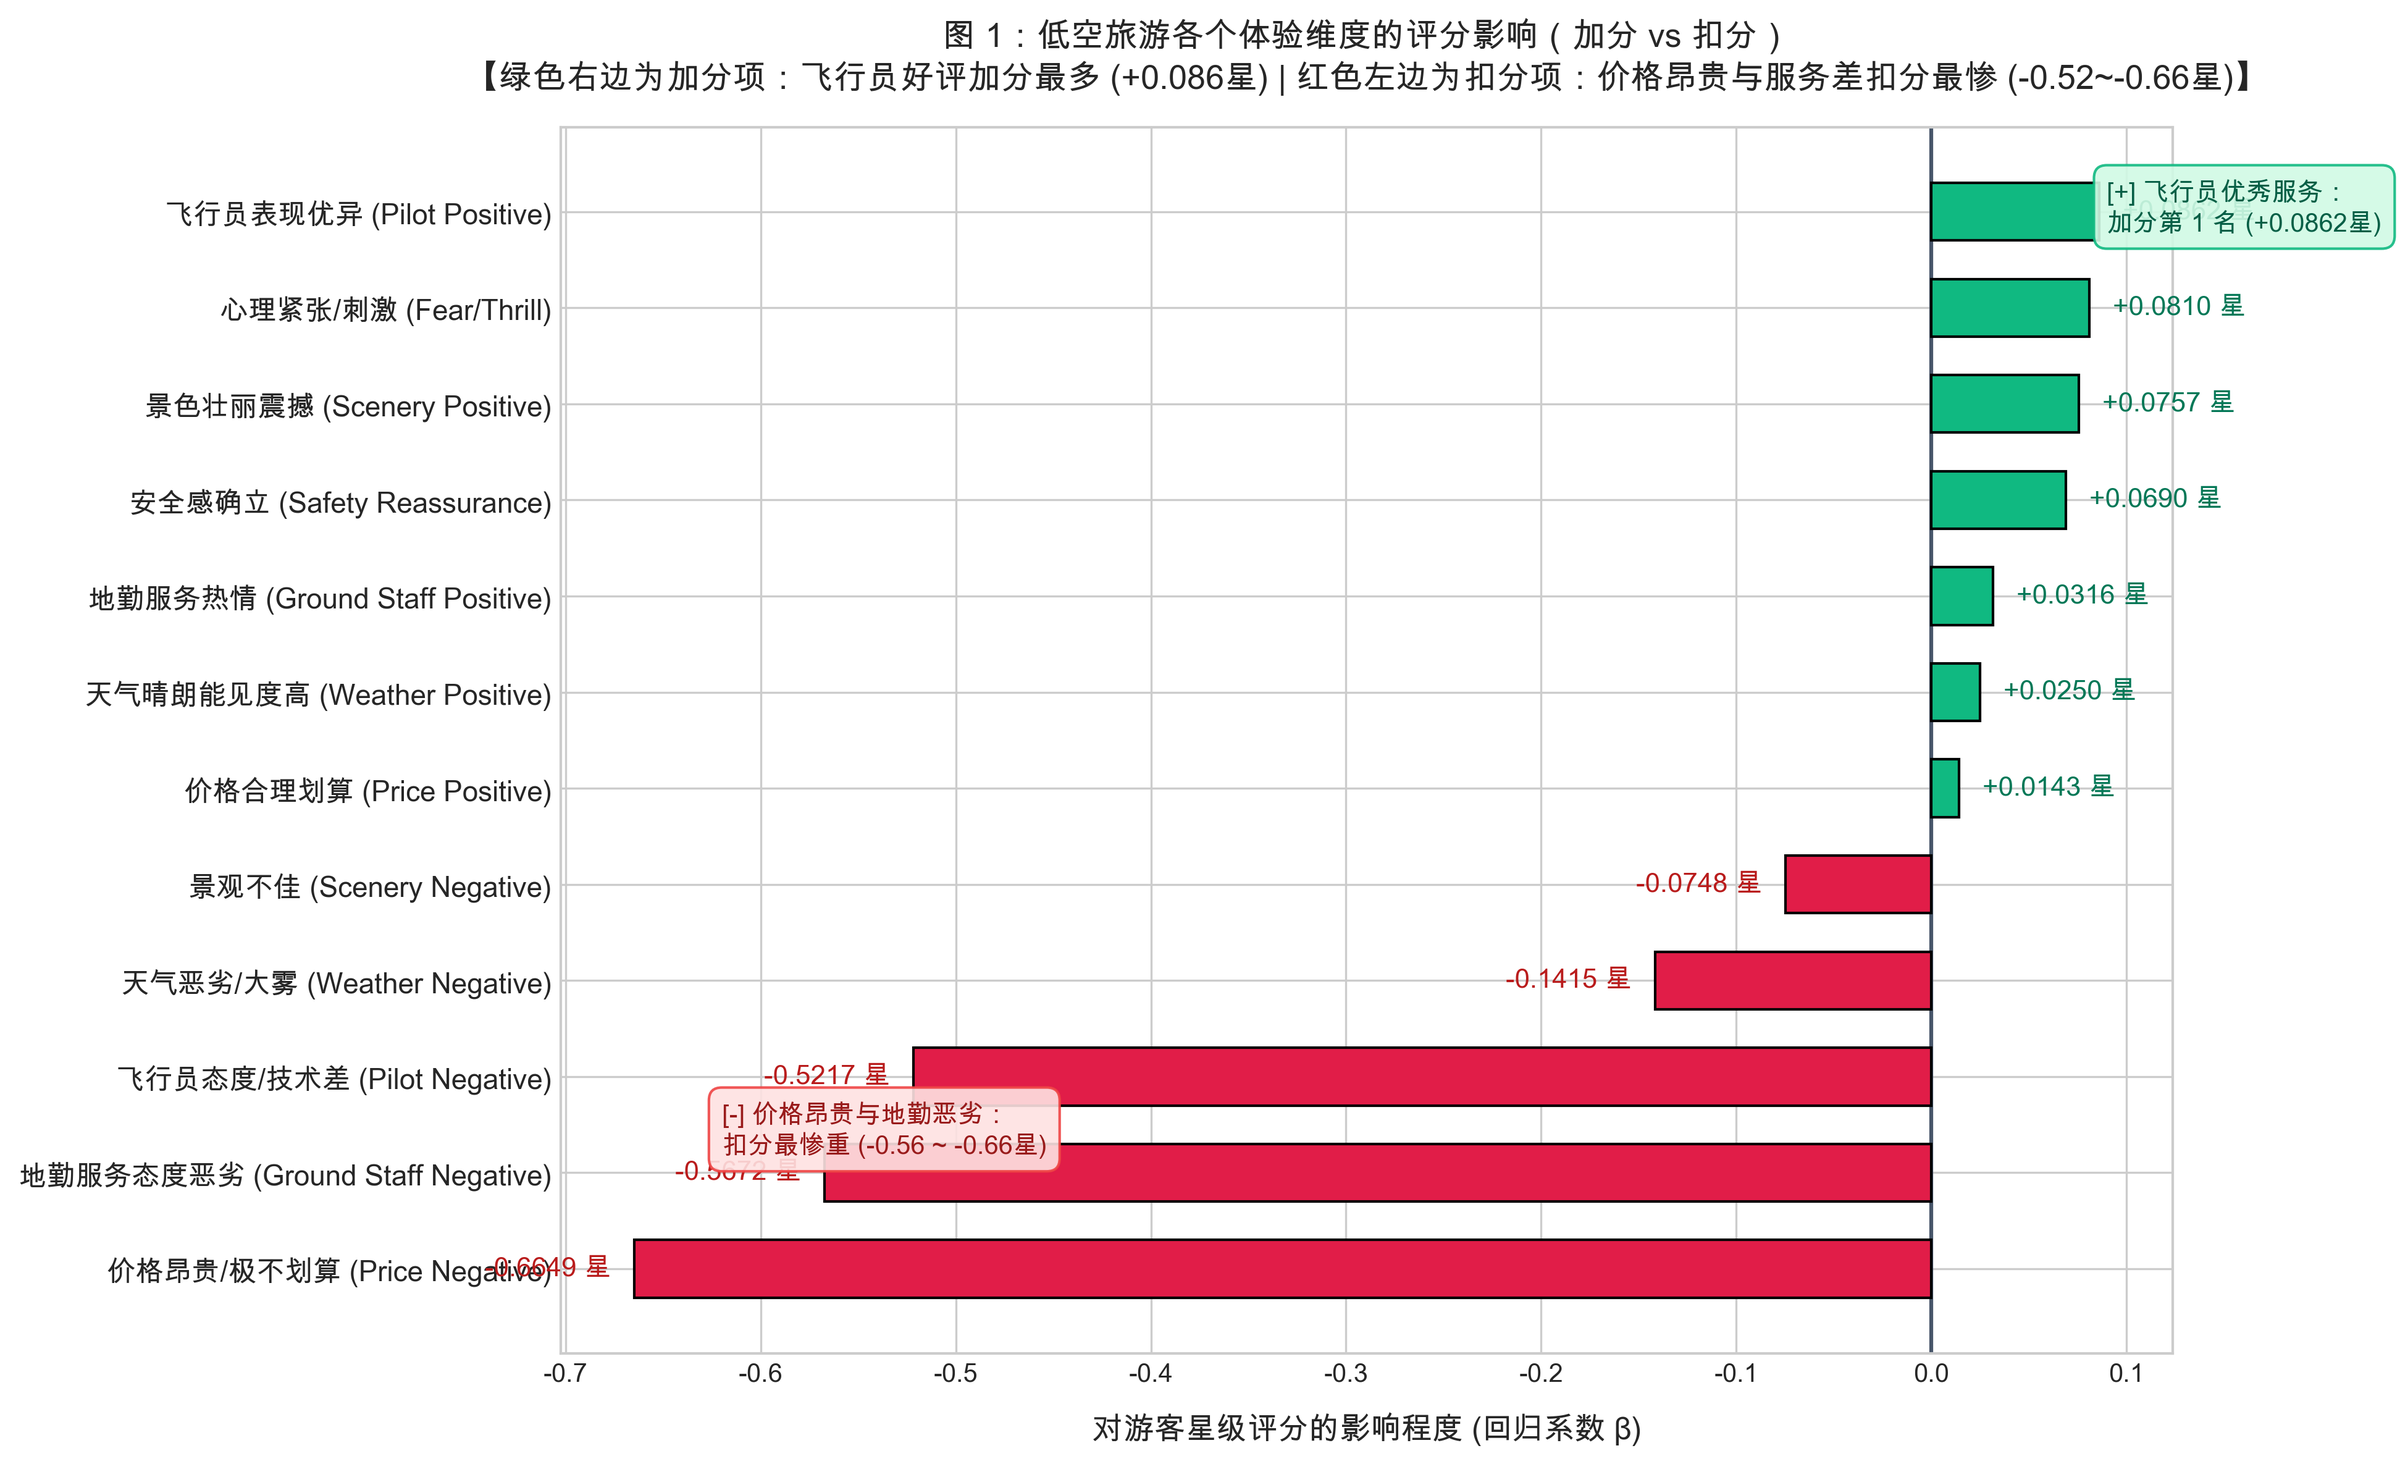
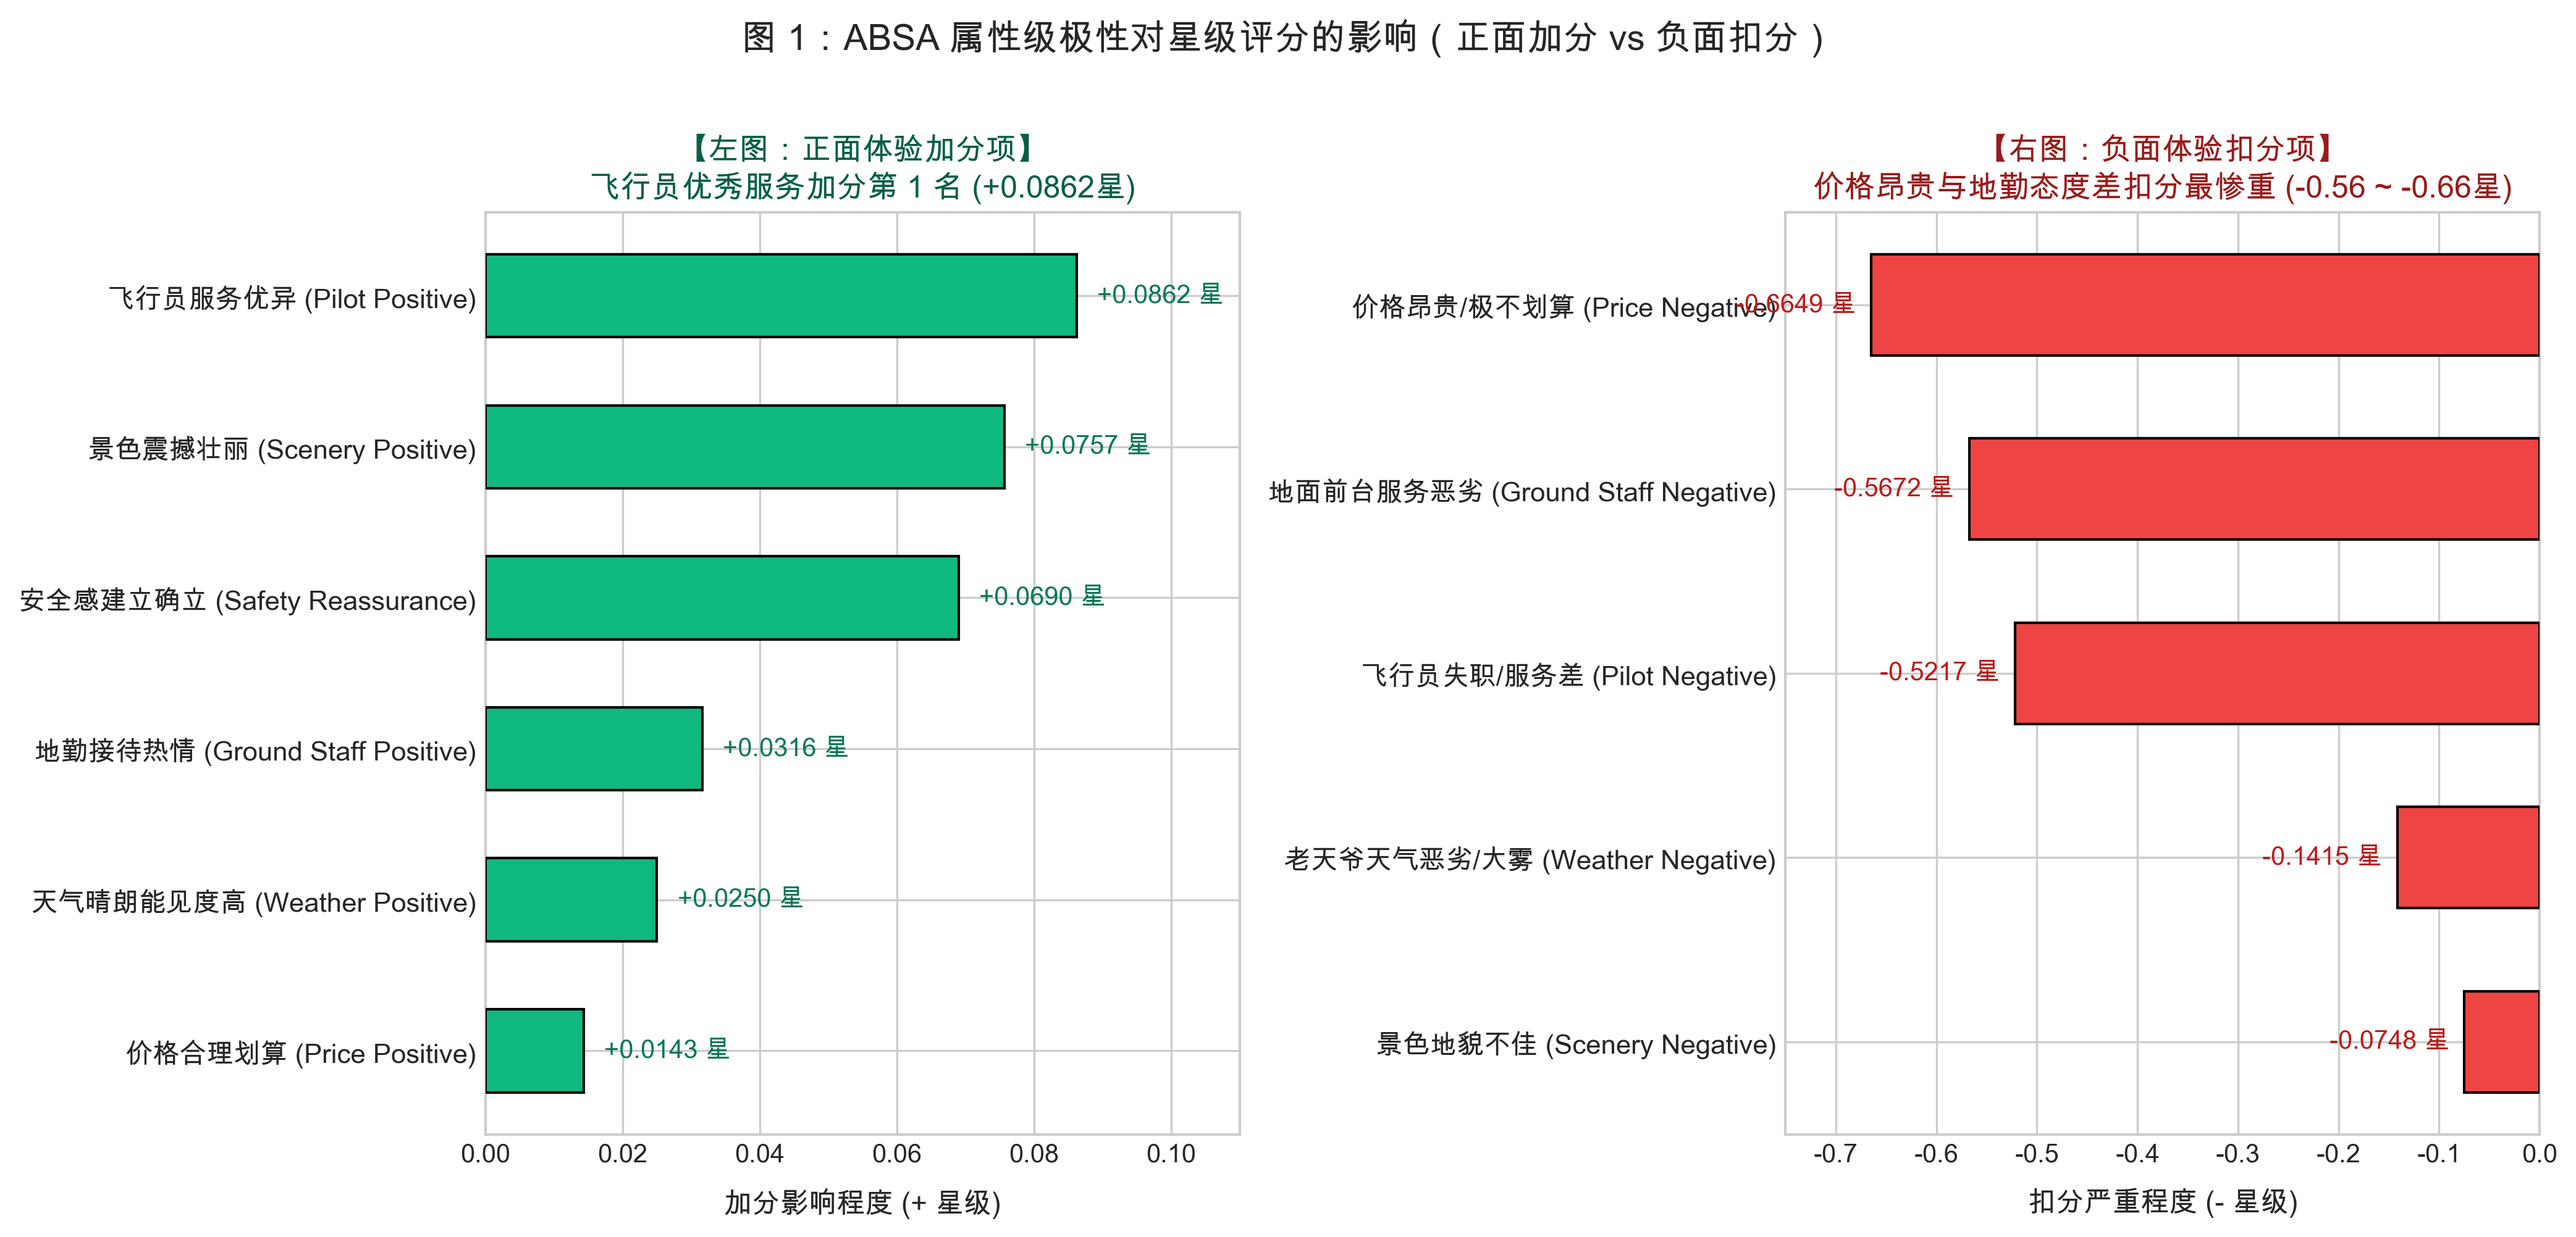
feat(viz): redesign figure 1 into 2-panel positive vs negative layout

diff --git a/generate_absa_econometric_plots.py b/generate_absa_econometric_plots.py
@@ -13,60 +13,73 @@ out_dir = 'figures'
 os.makedirs(out_dir, exist_ok=True)
 
 # -----------------------------------------------------------------------------
-# 图 1：各个体验维度对星级评分的影响（加分项 vs 扣分项 对比图）
+# 图 1：ABSA 属性极性影响 —— 清晰拆分为加分项与扣分项双面板对比图
 # -----------------------------------------------------------------------------
 absa_csv = 'data/derived_outputs/deep_research_absa_regressions.csv'
 df_absa = pd.read_csv(absa_csv)
 
-# 筛选核心领域维度
-df_domain = df_absa[~df_absa['Variable'].isin(['Intercept', 'word_count_std', 'is_us_domestic'])].copy()
+# 正面好评因素子集
+pos_vars = ['pilot_pos', 'scenery_pos', 'safety_assurance', 'ground_staff_pos', 'weather_pos', 'price_value_pos']
+pos_labels = [
+    '飞行员服务优异 (Pilot Positive)',
+    '景色震撼壮丽 (Scenery Positive)',
+    '安全感建立确立 (Safety Reassurance)',
+    '地勤接待热情 (Ground Staff Positive)',
+    '天气晴朗能见度高 (Weather Positive)',
+    '价格合理划算 (Price Positive)'
+]
 
-# 中文通俗标签映射
-zh_name_map = {
-    'pilot_pos': '飞行员表现优异 (Pilot Positive)',
-    'scenery_pos': '景色壮丽震撼 (Scenery Positive)',
-    'safety_assurance': '安全感确立 (Safety Reassurance)',
-    'fear_anxiety': '心理紧张/刺激 (Fear/Thrill)',
-    'ground_staff_pos': '地勤服务热情 (Ground Staff Positive)',
-    'weather_pos': '天气晴朗能见度高 (Weather Positive)',
-    'price_value_pos': '价格合理划算 (Price Positive)',
-    'scenery_neg': '景观不佳 (Scenery Negative)',
-    'weather_neg': '天气恶劣/大雾 (Weather Negative)',
-    'pilot_neg': '飞行员态度/技术差 (Pilot Negative)',
-    'ground_staff_neg': '地勤服务态度恶劣 (Ground Staff Negative)',
-    'price_value_neg': '价格昂贵/极不划算 (Price Negative)'
-}
+# 负面抱怨因素子集
+neg_vars = ['price_value_neg', 'ground_staff_neg', 'pilot_neg', 'weather_neg', 'scenery_neg']
+neg_labels = [
+    '价格昂贵/极不划算 (Price Negative)',
+    '地面前台服务恶劣 (Ground Staff Negative)',
+    '飞行员失职/服务差 (Pilot Negative)',
+    '老天爷天气恶劣/大雾 (Weather Negative)',
+    '景色地貌不佳 (Scenery Negative)'
+]
 
-df_domain['ZH_Name'] = df_domain['Variable'].map(lambda x: zh_name_map.get(x, x))
-df_domain = df_domain.sort_values(by='Coef_ABSA_Baseline', ascending=True)
+df_pos = df_absa[df_absa['Variable'].isin(pos_vars)].copy()
+df_pos['Label'] = df_pos['Variable'].map(dict(zip(pos_vars, pos_labels)))
+df_pos = df_pos.sort_values(by='Coef_ABSA_Baseline', ascending=True)
 
-fig, ax = plt.subplots(figsize=(13, 8), dpi=300)
+df_neg = df_absa[df_absa['Variable'].isin(neg_vars)].copy()
+df_neg['Label'] = df_neg['Variable'].map(dict(zip(neg_vars, neg_labels)))
+df_neg = df_neg.sort_values(by='Coef_ABSA_Baseline', ascending=False) # Most negative at bottom
 
-y_pos = np.arange(len(df_domain))
-coefs = df_domain['Coef_ABSA_Baseline'].values
-names = df_domain['ZH_Name'].values
-colors = ['#E11D48' if c < 0 else '#10B981' for c in coefs]
+fig, (ax1, ax2) = plt.subplots(1, 2, figsize=(14, 6.5), dpi=300)
 
-bars = ax.barh(y_pos, coefs, color=colors, height=0.6, edgecolor='black', linewidth=1.0, zorder=3)
+# 上/左面板：正面加分项
+y1 = np.arange(len(df_pos))
+c1 = df_pos['Coef_ABSA_Baseline'].values
+l1 = df_pos['Label'].values
 
-ax.axvline(0.0, color='#475569', linestyle='-', linewidth=1.5, zorder=2)
-ax.set_yticks(y_pos)
-ax.set_yticklabels(names, fontsize=11, fontweight='bold')
-ax.set_xlabel('对游客星级评分的影响程度 (回归系数 β)', fontsize=12, fontweight='bold', labelpad=10)
-ax.set_title('图 1：低空旅游各个体验维度的评分影响（加分 vs 扣分）\n【绿色右边为加分项：飞行员好评加分最多 (+0.086星) | 红色左边为扣分项：价格昂贵与服务差扣分最惨 (-0.52~-0.66星)】', fontsize=13, fontweight='bold', pad=15)
+bars1 = ax1.barh(y1, c1, color='#10B981', height=0.55, edgecolor='black', linewidth=1.0, zorder=3)
+ax1.set_yticks(y1)
+ax1.set_yticklabels(l1, fontsize=10.5, fontweight='bold')
+ax1.set_xlim(0.0, 0.11)
+ax1.set_xlabel('加分影响程度 (+ 星级)', fontsize=11, fontweight='bold', labelpad=8)
+ax1.set_title('【左图：正面体验加分项】\n飞行员优秀服务加分第 1 名 (+0.0862星)', fontsize=12, fontweight='bold', color='#065F46')
 
-for bar, c in zip(bars, coefs):
-    width = bar.get_width()
-    offset = 0.012 if c >= 0 else -0.012
-    align = 'left' if c >= 0 else 'right'
-    color = '#047857' if c >= 0 else '#B91C1C'
-    label_str = f"+{c:.4f} 星" if c >= 0 else f"{c:.4f} 星"
-    ax.text(width + offset, bar.get_y() + bar.get_height()/2.0, label_str, va='center', ha=align, fontsize=10.5, fontweight='bold', color=color)
+for bar, val in zip(bars1, c1):
+    ax1.text(val + 0.003, bar.get_y() + bar.get_height()/2.0, f"+{val:.4f} 星", va='center', ha='left', fontsize=10, fontweight='bold', color='#047857')
 
-# 添加重点标注框
-ax.text(0.09, 10.8, '[+] 飞行员优秀服务：\n加分第 1 名 (+0.0862星)', bbox=dict(boxstyle='round,pad=0.5', facecolor='#D1FAE5', edgecolor='#10B981', alpha=0.9), fontsize=10, fontweight='bold', color='#065F46')
-ax.text(-0.62, 1.2, '[-] 价格昂贵与地勤恶劣：\n扣分最惨重 (-0.56 ~ -0.66星)', bbox=dict(boxstyle='round,pad=0.5', facecolor='#FEE2E2', edgecolor='#EF4444', alpha=0.9), fontsize=10, fontweight='bold', color='#991B1B')
+# 右面板：负面扣分项
+y2 = np.arange(len(df_neg))
+c2 = df_neg['Coef_ABSA_Baseline'].values
+l2 = df_neg['Label'].values
 
+bars2 = ax2.barh(y2, c2, color='#EF4444', height=0.55, edgecolor='black', linewidth=1.0, zorder=3)
+ax2.set_yticks(y2)
+ax2.set_yticklabels(l2, fontsize=10.5, fontweight='bold')
+ax2.set_xlim(-0.75, 0.0)
+ax2.set_xlabel('扣分严重程度 (- 星级)', fontsize=11, fontweight='bold', labelpad=8)
+ax2.set_title('【右图：负面体验扣分项】\n价格昂贵与地勤态度差扣分最惨重 (-0.56 ~ -0.66星)', fontsize=12, fontweight='bold', color='#991B1B')
+
+for bar, val in zip(bars2, c2):
+    ax2.text(val - 0.015, bar.get_y() + bar.get_height()/2.0, f"{val:.4f} 星", va='center', ha='right', fontsize=10, fontweight='bold', color='#B91C1C')
+
+fig.suptitle('图 1：ABSA 属性级极性对星级评分的影响（正面加分 vs 负面扣分）', fontsize=14, fontweight='bold', y=1.02)
 plt.tight_layout()
 fig1_path = os.path.join(out_dir, 'absa_marginal_effects_forest_plot.png')
 plt.savefig(fig1_path, dpi=300, bbox_inches='tight')
@@ -103,7 +116,6 @@ for bar, r in zip(bars2, ratings):
     diff_str = f" ({diff:+.3f}星)" if abs(diff) > 0.001 else " (基准线)"
     ax.text(bar.get_x() + bar.get_width()/2.0, yval + 0.008, f"{r:.3f} 星\n{diff_str}", ha='center', va='bottom', fontsize=11, fontweight='bold')
 
-# 弧线箭头标注“救场反弹”
 ax.annotate(
     '飞行员救场反弹效应！\n(+0.2788 交互作用补救)',
     xy=(2, bad_weather_good_pilot), xytext=(1.15, 4.935),
@@ -123,7 +135,6 @@ print(f"Saved Figure 2 -> {fig2_path}")
 # -----------------------------------------------------------------------------
 fig, (ax1, ax2) = plt.subplots(1, 2, figsize=(14, 6.5), dpi=300)
 
-# 左图：模型解释力提升（R² 暴涨）
 models = ['旧方法：忽略转折句\n(仅看属性词)', '新方法：加入 but 转折句分析\n(看转折句后半段极性)']
 r2_vals = [11.87, 24.88]
 m_colors = ['#94A3B8', '#6366F1']
@@ -144,7 +155,6 @@ ax1.annotate(
     fontsize=10.5, fontweight='bold', color='#3730A3'
 )
 
-# 右图：转折句后半段得分与评分的关系
 x_post = np.linspace(-1.0, 1.0, 100)
 y_pred = 4.176 + 0.8094 * x_post
 
@@ -154,7 +164,6 @@ ax2.set_xlabel('but (但是) 转折句后半段的情感极性 (-1负面 ~ +1正
 ax2.set_ylabel('游客预测星级评分 (1 ~ 5 星)', fontsize=11, fontweight='bold', labelpad=10)
 ax2.set_title('右图：but 转折句后半段越正面，评分越高\n(斜率 β = +0.8094, 极具决定性)', fontsize=12, fontweight='bold', pad=12)
 
-# 在右图添加文字解释
 ax2.text(-0.85, 4.75, '前半句再多害怕或抱怨\n只要 but 后半句是好评\n最终就是 5 星！', bbox=dict(boxstyle='round,pad=0.5', facecolor='#FEF3C7', edgecolor='#F59E0B', alpha=0.95), fontsize=10, fontweight='bold', color='#92400E')
 
 fig.suptitle('图 3：为什么转折句 "but" 后的内容才是决定游客最终打分的关键？', fontsize=14, fontweight='bold', y=1.02)
